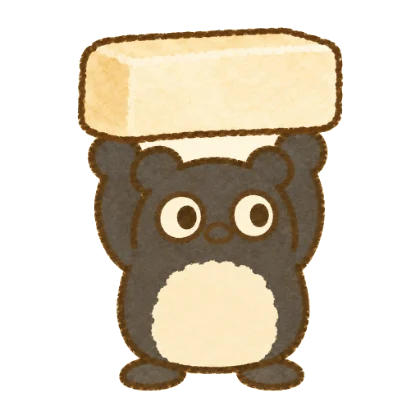
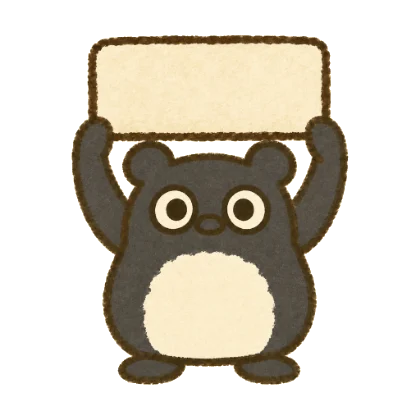
feat(igloo): painted night snowfield, new carry pose, flying brick is the carried block
- igloo-bg-night.webp: the same snowfield at night with its own crescent
  moon and stars (Codex, refs: official mascot + storyboard H-05); replaces
  the brown overlay + vector moon, and no sun glow at night.
- pose-carry.webp redrawn (Codex, refs: mascot + H-06): flippers raised
  from the sides of the body, whole centred belly; accessory fit re-measured.
- The brick that flies onto the igloo is the ice block from the carry art
  (ice-block.webp), no more white glowing strip.

Changed region(s): [[0.1548, 0.0619, 0.8357, 0.9286], [0.619, 0.65, 0.65, 0.7119]]

diff --git a/components/igloo/igloo-scene.tsx b/components/igloo/igloo-scene.tsx
@@ -24,6 +24,10 @@ export interface IglooView {
  * finished one.
  */
 const BG_SRC = '/art/igloo/igloo-bg.webp'
+const BG_NIGHT_SRC = '/art/igloo/igloo-bg-night.webp'
+/** The ice block the penguin carries (cut from the carry pose) — what flies onto the igloo. */
+const BLOCK_SRC = '/art/igloo/ice-block.webp'
+const BLOCK_RATIO = 99 / 240
 const IGLOO_SRC = '/art/igloo/igloo-full.webp'
 const POSE_SRC = {
   carry: '/art/igloo/pose-carry.webp',
@@ -102,7 +106,7 @@ type Pose = keyof typeof SPOTS
 /** Where the carried block is (scene units) — the flying brick starts here. */
 const HANDS = {
   x: ((SPOTS.carry.left + SPOTS.carry.width * 0.5) / 100) * W,
-  y: H * (1 - SPOTS.carry.bottom / 100) - (SPOTS.carry.width / 100) * W * 0.81,
+  y: H * (1 - SPOTS.carry.bottom / 100) - (SPOTS.carry.width / 100) * W * 0.79,
 }
 /**
  * The user's accessory on the painted poses: translate + scale (in the
@@ -110,7 +114,7 @@ const HANDS = {
  * pose's eyes onto each pose's eyes. Measured on the art.
  */
 const ACCESSORY_FIT: Partial<Record<Pose, { x: number; y: number; s: number }>> = {
-  carry: { x: 61.2, y: 76.9, s: 0.543 },
+  carry: { x: 57.3, y: 75.1, s: 0.517 },
   cheer: { x: 41.6, y: 40.3, s: 0.623 },
   sit: { x: 47.5, y: 33.2, s: 0.636 },
 }
@@ -215,13 +219,6 @@ export function IglooScene({
               ))}
             </g>
           </mask>
-          {flying && (
-            <mask id={`slot-${uid}`} maskUnits="userSpaceOnUse" x="0" y="0" width={W} height={H}>
-              <g transform={artTransform}>
-                <rect x={flying.x} y={flying.y} width={flying.w} height={flying.h} fill="#fff" />
-              </g>
-            </mask>
-          )}
           <clipPath id={`noflag-${uid}`}>
             <rect x="0" y={ART_Y + ART_FLAG_BOTTOM * SCALE} width={W} height={H} />
           </clipPath>
@@ -248,17 +245,8 @@ export function IglooScene({
           </radialGradient>
         </defs>
 
-        <image href={BG_SRC} x="0" y="0" width={W} height={H} preserveAspectRatio="xMidYMid slice" />
-        {night && (
-          <g>
-            <rect x="0" y="0" width={W} height={H} fill="#3a2a1c" opacity="0.32" />
-            <circle cx="314" cy="42" r="26" fill={`url(#glow-${uid})`} opacity="0.5" />
-            <path d="M310 27 A16 16 0 1 0 330 52 A13 13 0 1 1 310 27 Z" fill="#f6dc8e" stroke="#5a3d22" strokeWidth="1.2" strokeLinejoin="round" />
-            {[[40, 34], [96, 20], [170, 38], [252, 22], [282, 62]].map(([x, y]) => (
-              <circle key={`${x}`} cx={x} cy={y} r="1.6" fill="#f6dc8e" opacity="0.9" />
-            ))}
-          </g>
-        )}
+        {/* day / night: two paintings of the same snowfield (the night one has its own moon) */}
+        <image href={night ? BG_NIGHT_SRC : BG_SRC} x="0" y="0" width={W} height={H} preserveAspectRatio="xMidYMid slice" />
 
         {/* the village: one painted igloo per finished one */}
         {VILLAGE.slice(0, villageCount).map((v, i) => {
@@ -305,16 +293,22 @@ export function IglooScene({
           </g>
         )}
 
-        {/* the brick in flight: the very brick of the painting it will become, lit up */}
-        {flying && flyFrom && (
-          <g
-            key={`fly-${placing}`}
-            className={styles.flying}
-            style={{ '--dx': `${flyFrom.dx}px`, '--dy': `${flyFrom.dy}px` } as React.CSSProperties}
-          >
-            <image href={IGLOO_SRC} x={ART_X} y={ART_Y} width={SIZE} height={SIZE} mask={`url(#slot-${uid})`} />
-          </g>
-        )}
+        {/* the brick in flight: the same painted ice block the penguin is holding */}
+        {flying && flyFrom && (() => {
+          const bw = Math.min(30, flying.w * SCALE)
+          const bh = bw * BLOCK_RATIO
+          const cx = ART_X + (flying.x + flying.w / 2) * SCALE
+          const cy = ART_Y + (flying.y + flying.h / 2) * SCALE
+          return (
+            <g
+              key={`fly-${placing}`}
+              className={styles.flying}
+              style={{ '--dx': `${flyFrom.dx}px`, '--dy': `${flyFrom.dy}px` } as React.CSSProperties}
+            >
+              <image href={BLOCK_SRC} x={cx - bw / 2} y={cy - bh / 2} width={bw} height={bh} />
+            </g>
+          )
+        })()}
 
         {/* light snowfall */}
         {!compact && (

diff --git a/components/igloo/igloo.module.css b/components/igloo/igloo.module.css
@@ -43,7 +43,7 @@
   0%, 70% { opacity: 0; }
   100% { opacity: 1; }
 }
-/* the brick in flight is lit up, then dims back as it lands */
+/* the carried block flies from the penguin to its place, then hands over to the painting */
 .flying {
   transform-box: fill-box;
   transform-origin: 50% 50%;
@@ -52,23 +52,19 @@
 }
 @keyframes fly {
   0% {
-    transform: translate(var(--dx), var(--dy)) scale(0.85);
-    filter: brightness(1.35) drop-shadow(0 0 3px rgba(255, 220, 140, 0.9));
+    transform: translate(var(--dx), var(--dy)) scale(0.9);
     opacity: 1;
   }
   55% {
     transform: translate(calc(var(--dx) * 0.4), calc(var(--dy) * 0.4 - 24px)) scale(1);
-    filter: brightness(1.35) drop-shadow(0 0 4px rgba(255, 220, 140, 0.9));
     opacity: 1;
   }
-  80% {
+  85% {
     transform: translate(0, 0) scale(1);
-    filter: brightness(1.3) drop-shadow(0 0 3px rgba(255, 220, 140, 0.8));
     opacity: 1;
   }
   100% {
     transform: translate(0, 0) scale(1);
-    filter: brightness(1) drop-shadow(0 0 0 rgba(255, 220, 140, 0));
     opacity: 0;
   }
 }
